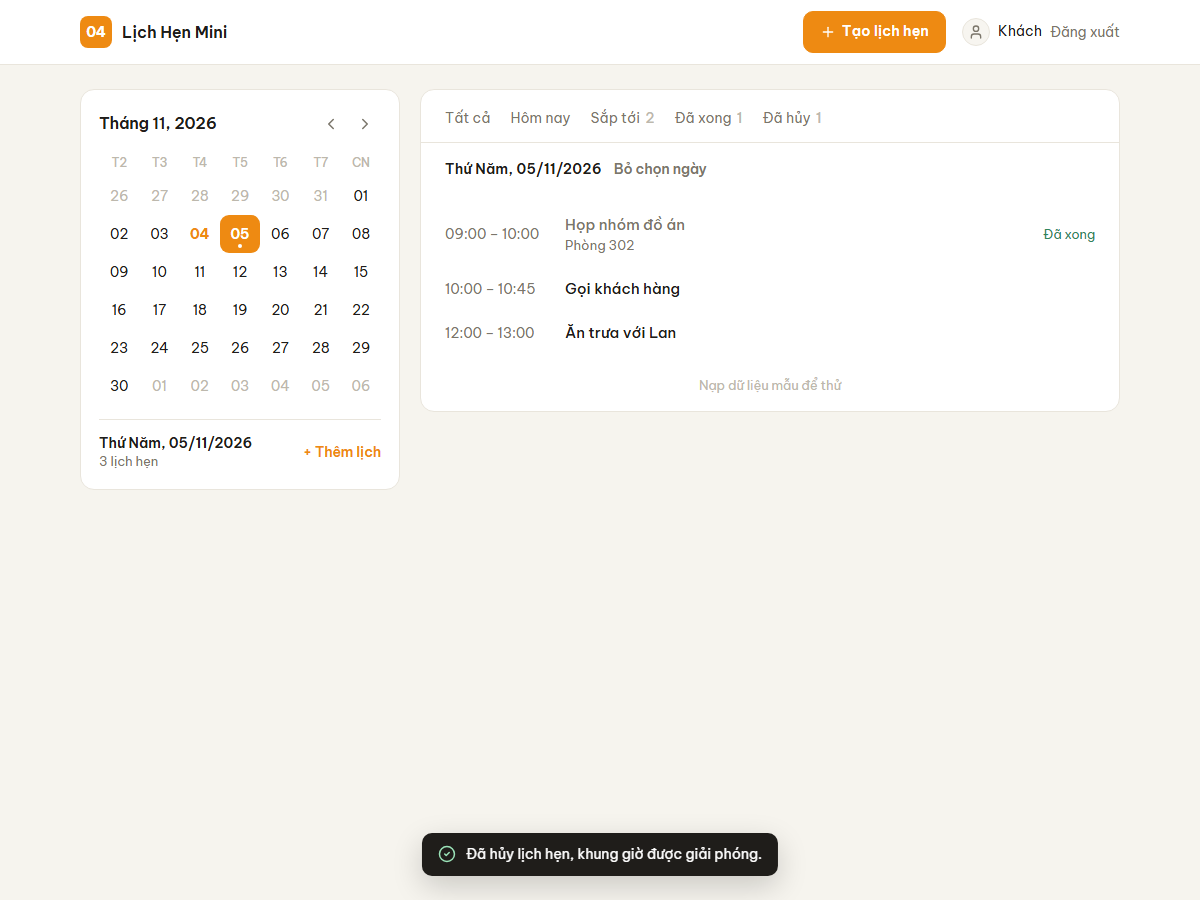
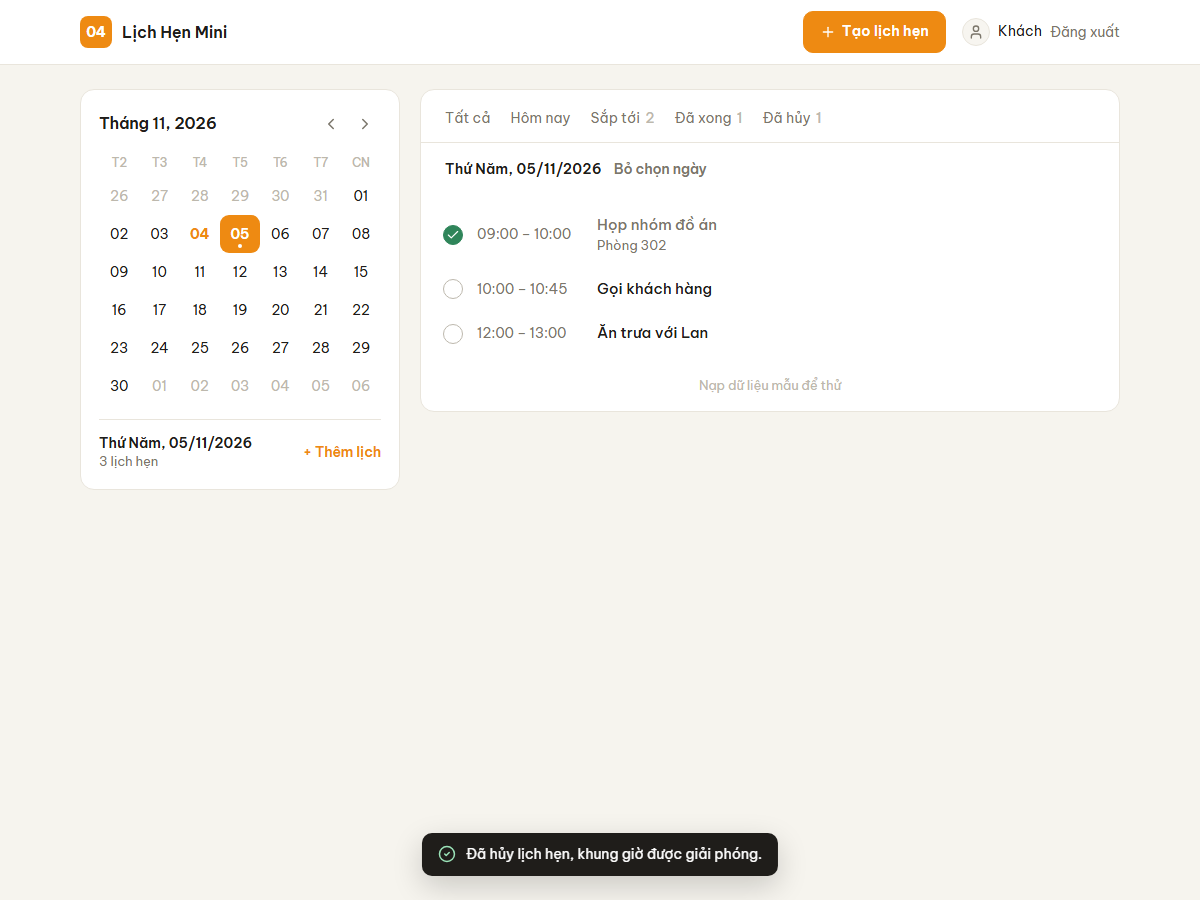
feat: quick row actions (done toggle, trash) + in-app confirm dialog
- each row: circle to toggle done, trash button (on hover; always visible on touch)
- replace browser confirm() ('localhost says') with a styled confirm <dialog>; works stacked over detail popup
- e2e: 7 new checks (37 total); docs updated

Changed region(s): [[0.37, 0.3111, 0.5858, 0.3733], [0.37, 0.2178, 0.5858, 0.28], [0.8633, 0.2489, 0.925, 0.28]]

diff --git a/src/app.js b/src/app.js
@@ -245,8 +245,34 @@ function updateStatus(id, next, okMessage, { onError } = {}) {
   return true;
 }
 
-function confirmDelete(a) {
-  if (!confirm(`Xóa vĩnh viễn "${a.title}"?`)) return false;
+// Popup xác nhận riêng thay cho confirm() của trình duyệt ("localhost says…").
+const confirmDialogEl = $('#confirm-dialog');
+function askConfirm({ title, message, ok = 'Xóa' }) {
+  return new Promise((resolve) => {
+    $('#confirm-title').textContent = title;
+    $('#confirm-message').textContent = message;
+    $('#confirm-ok').textContent = ok;
+    const finish = (value) => {
+      confirmDialogEl.removeEventListener('close', onClose);
+      if (confirmDialogEl.open) confirmDialogEl.close();
+      resolve(value);
+    };
+    const onClose = () => finish(false); // Esc
+    confirmDialogEl.addEventListener('close', onClose);
+    $('#confirm-ok').onclick = () => finish(true);
+    $('#confirm-cancel').onclick = () => finish(false);
+    confirmDialogEl.onclick = (e) => e.target === confirmDialogEl && finish(false);
+    confirmDialogEl.showModal();
+    $('#confirm-cancel').focus();
+  });
+}
+
+async function confirmDelete(a) {
+  const ok = await askConfirm({
+    title: 'Xóa lịch hẹn?',
+    message: `"${a.title}" (${formatRange(a)}) sẽ bị xóa vĩnh viễn, không khôi phục được.`,
+  });
+  if (!ok) return false;
   persist(deleteAppointment(appointments, a.id));
   toast('Đã xóa lịch hẹn.');
   return true;
@@ -270,22 +296,46 @@ function statusActions(a, opts = {}) {
             run(STATUS.SCHEDULED, 'Đã khôi phục lịch hẹn.'),
           ),
         ];
-  buttons.push(actionButton('Xóa', 'danger delete', 'trash', () => confirmDelete(a) && opts.onDeleted?.()));
+  buttons.push(actionButton('Xóa', 'danger delete', 'trash', async () => (await confirmDelete(a)) && opts.onDeleted?.()));
   return buttons;
 }
 
 function itemState(a) {
-  if (a.status === STATUS.DONE) return 'Đã xong';
+  if (a.status === STATUS.DONE) return ''; // vòng tròn xanh đã thể hiện
   if (a.status === STATUS.CANCELLED) return 'Đã hủy';
   if (toMs(a.end) <= Date.now()) return 'Đã qua';
   return '';
 }
 
 // Mỗi dòng chỉ gồm giờ, tiêu đề, trạng thái; bấm vào để mở chi tiết và thao tác.
+// Dòng lịch: vòng tròn đánh dấu xong | giờ + tiêu đề (bấm để xem chi tiết) | thùng rác.
 function renderItem(a) {
-  const btn = el(
+  const done = a.status === STATUS.DONE;
+  const check =
+    a.status === STATUS.CANCELLED
+      ? el('span', { className: 'check-slot' })
+      : el(
+          'button',
+          {
+            type: 'button',
+            className: `check${done ? ' on' : ''}`,
+            title: done ? 'Bỏ đánh dấu xong' : 'Đánh dấu đã xong',
+          },
+          done ? icon('check', { size: 14 }) : null,
+        );
+  check.setAttribute?.('aria-label', done ? `Bỏ đánh dấu xong "${a.title}"` : `Đánh dấu xong "${a.title}"`);
+  if (check.tagName === 'BUTTON') {
+    check.setAttribute('aria-pressed', String(done));
+    check.addEventListener('click', () =>
+      done
+        ? updateStatus(a.id, STATUS.SCHEDULED, 'Đã bỏ đánh dấu xong.')
+        : updateStatus(a.id, STATUS.DONE, 'Đã đánh dấu hoàn thành.'),
+    );
+  }
+
+  const open = el(
     'button',
-    { type: 'button', className: `item is-${a.status}${highlightIds.has(a.id) ? ' highlight' : ''}`, title: 'Xem chi tiết' },
+    { type: 'button', className: 'item-open', title: 'Xem chi tiết' },
     el('span', { className: 'time', textContent: formatRange(a) }),
     el(
       'span',
@@ -295,8 +345,19 @@ function renderItem(a) {
     ),
     el('span', { className: 'state', textContent: itemState(a) }),
   );
-  btn.addEventListener('click', () => openDetail(a.id));
-  return btn;
+  open.addEventListener('click', () => openDetail(a.id));
+
+  const trash = el('button', { type: 'button', className: 'icon-btn trash', title: 'Xóa' }, icon('trash', { size: 16 }));
+  trash.setAttribute('aria-label', `Xóa "${a.title}"`);
+  trash.addEventListener('click', () => confirmDelete(a));
+
+  return el(
+    'div',
+    { className: `item is-${a.status}${highlightIds.has(a.id) ? ' highlight' : ''}` },
+    check,
+    open,
+    trash,
+  );
 }
 
 // ---------- popup chi tiết ----------

diff --git a/scripts/e2e-smoke.js b/scripts/e2e-smoke.js
@@ -137,7 +137,7 @@ check(
 
 // Thao tác trên một lịch: mở popup chi tiết rồi bấm nút theo nhãn
 const act = (findExpr, label) => `(() => {
-  ${findExpr}.click();
+  ${findExpr}.querySelector('.item-open').click();
   [...document.querySelectorAll('#detail-actions .btn')].find((b) => b.textContent.trim() === ${JSON.stringify(label)}).click();
 })()`;
 const closeDetail = () => evaluate("document.querySelector('#detail-dialog').open && document.querySelector('#detail-close').click()");
@@ -227,7 +227,7 @@ check(
   await evaluate(`(() => {
     const item = document.querySelector('.item.is-scheduled');
     const title = item.querySelector('.title').textContent;
-    item.click();
+    item.querySelector('.item-open').click();
     const d = document.querySelector('#detail-dialog');
     return d.open && document.querySelector('#detail-title').textContent === title &&
       document.querySelectorAll('#detail-rows li').length >= 3 && /giờ|phút/.test(document.querySelector('#detail-rows').textContent);
@@ -243,6 +243,40 @@ check(
 await evaluate("document.querySelector('#detail-actions .btn').click()"); // Bỏ đánh dấu
 await evaluate("document.querySelector('#detail-close').click()");
 check('E2E-28 đóng popup chi tiết', await evaluate("!document.querySelector('#detail-dialog').open"));
+
+// Thao tác nhanh trên dòng: vòng tròn đánh dấu xong + thùng rác với popup xác nhận riêng
+await evaluate("document.querySelector('.item.is-scheduled .check').click()");
+check('E2E-29 bấm vòng tròn trên dòng → đánh dấu xong ngay, không cần mở chi tiết', await evaluate(
+  "!document.querySelector('#detail-dialog').open && document.querySelectorAll('.item.is-done .check.on').length >= 1",
+));
+const doneBefore = await evaluate("document.querySelectorAll('.item.is-done').length");
+await evaluate("document.querySelector('.item.is-done .check').click()");
+check('E2E-30 bấm lại vòng tròn → bỏ đánh dấu', (await evaluate("document.querySelectorAll('.item.is-done').length")) === doneBefore - 1);
+
+const rows = () => evaluate("document.querySelectorAll('#list .item').length");
+const rowsBefore = await rows();
+await evaluate("document.querySelector('.item .trash').click()");
+check('E2E-31 bấm thùng rác → mở popup xác nhận của app (không phải confirm của trình duyệt)', await evaluate(
+  "document.querySelector('#confirm-dialog').open && document.querySelector('#confirm-message').textContent.includes('xóa vĩnh viễn')",
+));
+await sleep(300);
+await shot('09-confirm-delete.png');
+await evaluate("document.querySelector('#confirm-cancel').click()");
+check('E2E-32 bấm "Không" → không xóa', !(await evaluate("document.querySelector('#confirm-dialog').open")) && (await rows()) === rowsBefore);
+await evaluate("document.querySelector('.item .trash').click()");
+await evaluate("document.querySelector('#confirm-ok').click()");
+await sleep(100);
+check('E2E-33 bấm "Xóa" → xóa đúng 1 lịch', (await rows()) === rowsBefore - 1);
+await evaluate("document.querySelector('.item .item-open').click()");
+await evaluate("document.querySelector('#detail-actions .btn.delete').click()");
+check('E2E-34 xóa từ popup chi tiết → popup xác nhận hiện chồng lên', await evaluate(
+  "document.querySelector('#confirm-dialog').open && document.querySelector('#detail-dialog').open",
+));
+await evaluate("document.querySelector('#confirm-ok').click()");
+await sleep(100);
+check('E2E-35 xác nhận → đóng cả hai popup, xóa thêm 1 lịch', (await rows()) === rowsBefore - 2 && !(await evaluate(
+  "document.querySelector('#confirm-dialog').open || document.querySelector('#detail-dialog').open",
+)));
 
 const before = await evaluate("document.querySelectorAll('#list .item').length");
 await evaluate("document.querySelector('#btn-logout').click()");

diff --git a/css/style.css b/css/style.css
@@ -89,6 +89,8 @@ body {
 .btn.primary { color: #fff; background: var(--accent); border-color: var(--accent); font-weight: 600; }
 .btn.primary:hover { background: var(--accent-hover); border-color: var(--accent-hover); }
 .btn.danger { color: var(--cancel); }
+.btn.danger-fill { color: #fff; background: var(--cancel); border-color: var(--cancel); font-weight: 600; }
+.btn.danger-fill:hover { background: #a93725; border-color: #a93725; }
 .btn:disabled { opacity: 0.45; cursor: not-allowed; }
 
 .link-btn { font: inherit; font-size: 0.86rem; color: var(--muted); background: none; border: none; padding: 0; cursor: pointer; }
@@ -181,20 +183,53 @@ body {
 
 .item {
   display: grid;
+  grid-template-columns: 22px 1fr 32px;
+  gap: 12px;
+  align-items: center;
+  border-radius: 10px;
+  padding: 6px 8px 6px 14px;
+}
+.item:hover { background: var(--hover); }
+.item-open {
+  display: grid;
   grid-template-columns: 104px 1fr auto;
   gap: 16px;
   align-items: center;
-  width: 100%;
+  min-width: 0;
   font: inherit;
   color: inherit;
   text-align: left;
   background: none;
   border: none;
-  border-radius: 10px;
-  padding: 11px 16px;
+  padding: 5px 0;
   cursor: pointer;
+  border-radius: 6px;
 }
-.item:hover { background: var(--hover); }
+.item-open:focus-visible { outline: 2px solid var(--accent); outline-offset: 2px; }
+
+/* Vòng tròn đánh dấu xong */
+.check {
+  width: 20px;
+  height: 20px;
+  border-radius: 50%;
+  border: 1.5px solid var(--faint);
+  background: var(--card);
+  display: grid;
+  place-items: center;
+  padding: 0;
+  color: #fff;
+  cursor: pointer;
+  transition: border-color 0.12s, background 0.12s;
+}
+.check:hover { border-color: var(--done); }
+.check.on { background: var(--done); border-color: var(--done); }
+.check:focus-visible { outline: 2px solid var(--accent); outline-offset: 2px; }
+
+/* Thùng rác: chỉ hiện khi rê chuột / focus; thiết bị cảm ứng thì luôn hiện */
+.icon-btn.trash { opacity: 0; }
+.item:hover .icon-btn.trash, .icon-btn.trash:focus-visible { opacity: 1; }
+.icon-btn.trash:hover { color: var(--cancel); background: #fbefec; }
+@media (hover: none) { .icon-btn.trash { opacity: 1; } }
 .item .time { font-size: 0.86rem; color: var(--muted); font-variant-numeric: tabular-nums; white-space: nowrap; }
 .item .item-body { min-width: 0; display: flex; flex-direction: column; }
 .item .title { font-weight: 500; overflow: hidden; text-overflow: ellipsis; white-space: nowrap; }
@@ -207,7 +242,8 @@ body {
 .item.is-cancelled .state { color: var(--cancel); }
 .item.highlight { background: var(--warn-bg); box-shadow: inset 3px 0 0 var(--warn-line); }
 @media (max-width: 560px) {
-  .item { grid-template-columns: 1fr auto; gap: 2px 12px; }
+  .item { padding-left: 10px; }
+  .item-open { grid-template-columns: 1fr auto; gap: 2px 12px; }
   .item .time { grid-column: 1; }
   .item .item-body { grid-column: 1; grid-row: 2; }
   .item .state { grid-column: 2; grid-row: 1 / span 2; }
@@ -235,6 +271,9 @@ body {
 .modal-head h2 { margin: 0; font-size: 1.15rem; font-weight: 700; }
 .modal-head .icon-btn { margin: -6px -8px 0 0; }
 .modal-actions { display: flex; justify-content: flex-end; gap: 8px; margin-top: 8px; }
+.modal.confirm { width: min(380px, calc(100% - 32px)); }
+.modal.confirm h2 { margin: 0 0 6px; font-size: 1.05rem; font-weight: 700; }
+.modal.confirm p { margin: 0 0 18px; font-size: 0.9rem; overflow-wrap: anywhere; }
 
 /* ---------- form ---------- */
 .field { display: flex; flex-direction: column; gap: 6px; margin-bottom: 14px; font-size: 0.84rem; font-weight: 500; color: var(--muted); }

diff --git a/index.html b/index.html
@@ -147,6 +147,15 @@
       <div id="detail-actions" class="detail-actions"></div>
     </dialog>
 
+    <dialog id="confirm-dialog" class="modal confirm" aria-labelledby="confirm-title">
+      <h2 id="confirm-title"></h2>
+      <p id="confirm-message" class="muted"></p>
+      <div class="modal-actions">
+        <button type="button" class="btn" id="confirm-cancel">Không</button>
+        <button type="button" class="btn danger-fill" id="confirm-ok">Xóa</button>
+      </div>
+    </dialog>
+
     <div id="toast" class="toast" role="status" hidden></div>
 
     <script type="module" src="src/app.js"></script>

diff --git a/docs/TEST_CASES.md b/docs/TEST_CASES.md
@@ -5,8 +5,8 @@ Có 3 lớp kiểm thử:
 | Lớp | Cách chạy | Kết quả |
 |---|---|---|
 | Unit test (`tests/scheduler.test.js`, `auth.test.js`, `calendar.test.js`) | `npm test` | **52/52 pass** |
-| E2E smoke test trên trình duyệt thật (tự động hoá phần lớn bảng A) | `npm start` rồi `node scripts/e2e-smoke.js` | **30/30 pass** |
-| Test thủ công (bảng dưới) | Theo các bước trong bảng | **28/31 pass**, 3 case chờ test với Google Client ID thật |
+| E2E smoke test trên trình duyệt thật (tự động hoá phần lớn bảng A) | `npm start` rồi `node scripts/e2e-smoke.js` | **37/37 pass** |
+| Test thủ công (bảng dưới) | Theo các bước trong bảng | **30/33 pass**, 3 case chờ test với Google Client ID thật |
 
 ## A. Test thủ công
 
@@ -53,6 +53,8 @@ Có 3 lớp kiểm thử:
 | TC-T29 | Bấm tab "Đã xong", rồi tab "Tất cả" | Tab "Đã xong": chỉ còn lịch đã xong, đúng số ghi trên tab; "Tất cả": bỏ lọc | ✅ Pass |
 | TC-T30 | Có lịch đã xong ở 3 ngày khác nhau (hôm qua, 3 ngày trước, 6 ngày trước), bấm tab "Đã xong" | Nhóm theo từng ngày, **hôm qua lên đầu**, mỗi nhóm có nhãn "Hôm qua"/"3 ngày trước" | ✅ Pass |
 | TC-T31 | Bấm vào một lịch đã hủy mà khung giờ đã bị lịch khác chiếm → bấm "Khôi phục" trong popup | Popup vẫn mở, hiện hộp cảnh báo nêu lịch đang chiếm giờ; trạng thái vẫn là "Đã hủy" | ✅ Pass |
+| TC-T32 | Bấm vòng tròn bên trái một lịch sắp tới, rồi bấm lại | Lần 1: vòng tròn xanh có dấu tích, số ở tab "Đã xong" tăng; lần 2: về như cũ | ✅ Pass |
+| TC-T33 | Rê chuột vào một dòng → bấm thùng rác → "Không", rồi làm lại → "Xóa" | Hiện popup "Xóa lịch hẹn?" của app (không phải hộp "localhost says"); "Không" giữ nguyên, "Xóa" xóa đúng lịch đó | ✅ Pass |
 
 ### A4. Đăng nhập
 
